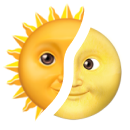
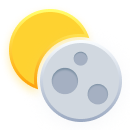
Update string foreground

diff --git a/definitions.py b/definitions.py
@@ -426,7 +426,7 @@ definitions = {
         },
         {
             "scope": ["string"],
-            "settings": {"foreground": Components.background_foregroundPrimary},
+            "settings": {"foreground": Components.background_foregroundSecondary},
         },
         {
             "scope": ["punctuation.definition.string", "storage.type.string.python"],

diff --git a/README.md b/README.md
@@ -1,3 +1,5 @@
+<p align="center"><img src="./icon.png" alt="Day 'n' Nite"></p>
+
 Minimalist monochrome theme for [Visual Studio Code](https://code.visualstudio.com).
 
 `version: 0.0.1-alpha`
